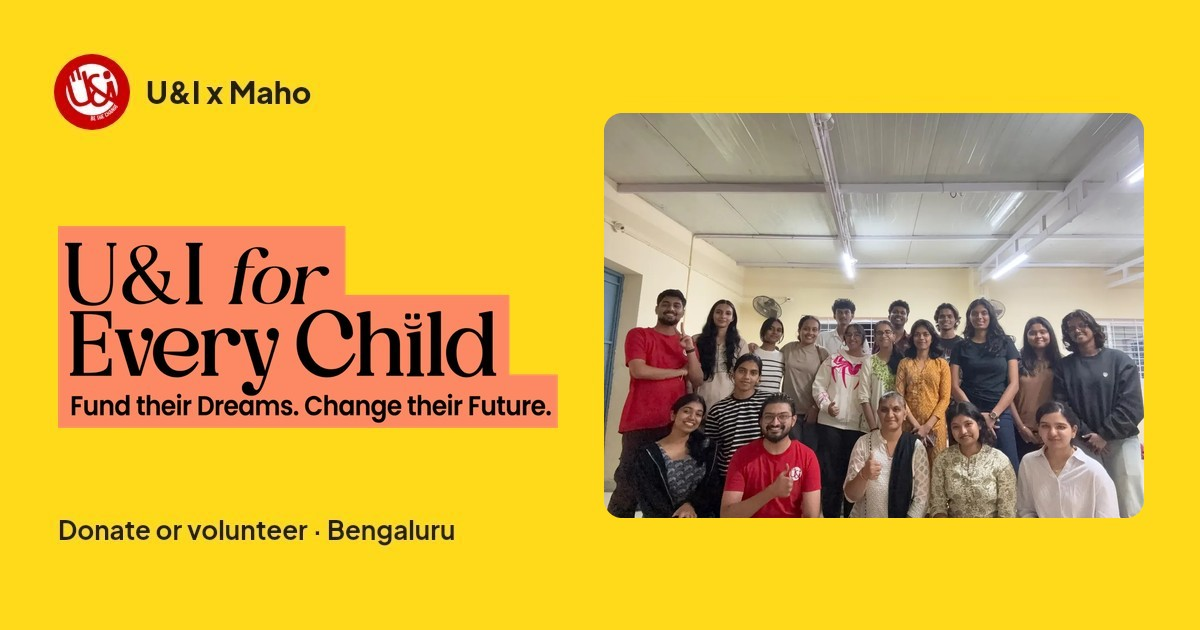
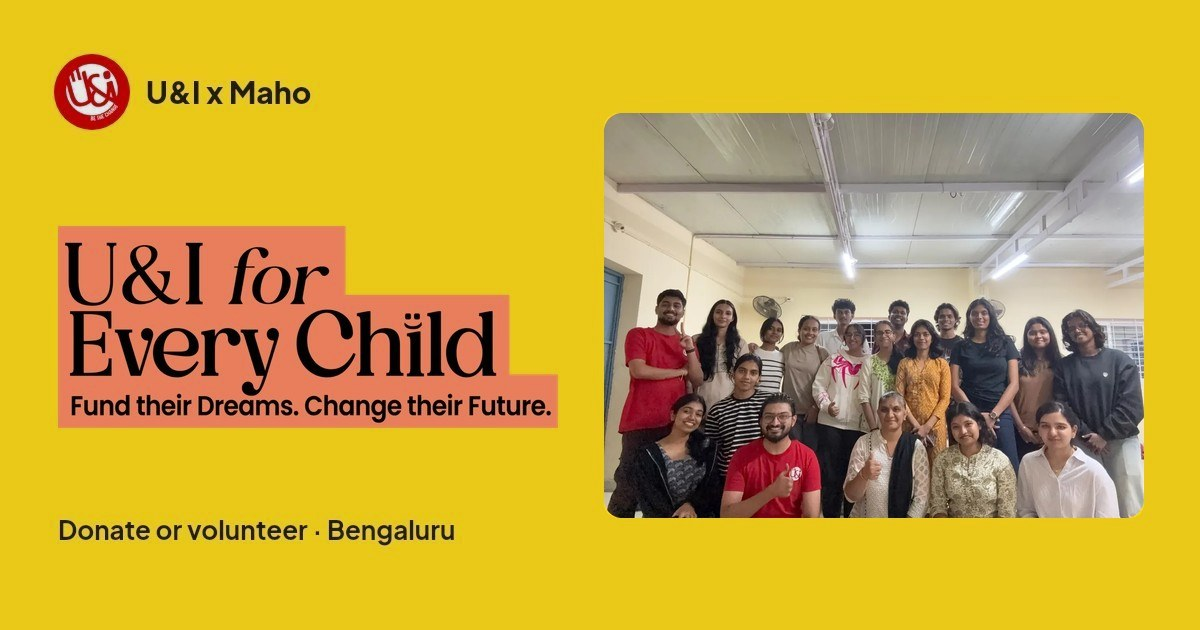
Close the loose ends from the site audit
- Fundraiser page on phones: the "#InThisTogether" headings were wider
  than the screen, so the page slid sideways. They now scale down on
  phones (and the closing one has a wider box on desktop); headings
  wrap instead of overflowing if a word is ever too long.
- Footer links are about 40px tall on phones, easy to tap.
- Phone menu: Esc closes it (focus goes back to the menu button), and
  tapping a link marks it closed for screen readers too.
- New "page not found" page (404.html), in the site's style, with links
  home, to Donate and to the student journeys.
- sitemap.xml and robots.txt are generated at build time; pages hidden
  from search (placeholders) are left out of the sitemap.
- Share image redone at the site's 92% brightness (photo unchanged);
  the privacy, terms and poster pages get their own share details.
- The footer year fills itself in at build time.

diff --git a/404.html b/404.html
@@ -1,0 +1,63 @@
+<!DOCTYPE html>
+<html lang="en">
+<head>
+<meta charset="utf-8">
+<!-- Same security policy as index.html (npm run check compares them). -->
+<meta http-equiv="Content-Security-Policy" content="default-src 'none'; script-src 'self'; style-src 'self'; img-src 'self'; font-src 'self'; form-action 'none'; base-uri 'none'; object-src 'none'; frame-src 'none'; manifest-src 'self'; require-trusted-types-for 'script'; upgrade-insecure-requests">
+<meta name="referrer" content="strict-origin-when-cross-origin">
+<meta name="viewport" content="width=device-width, initial-scale=1">
+<meta name="robots" content="noindex">
+<title>Page not found | U&amp;I x Maho</title>
+<meta name="description" content="This page doesn't exist. Go to the U&amp;I x Maho home page, donate, or read the student journeys.">
+<!-- "Page not found": Vercel (and GitHub Pages) show this for any address that doesn't exist, even deep ones like
+     /a/b. So every file here is linked from the site root ("/css/...", "/index.html"), the only page allowed to do
+     that (npm run check). On the GitHub Pages copy, which lives in a sub-folder, this page may show unstyled. -->
+<link rel="icon" type="image/png" href="/favicon.png">
+<link rel="apple-touch-icon" href="/apple-touch-icon.png">
+<link rel="preload" href="/fonts/archivo-latin-wdth-normal.woff2" as="font" type="font/woff2" crossorigin>
+<link rel="preload" href="/fonts/londrina-solid-latin-900-normal.woff2" as="font" type="font/woff2" crossorigin>
+<link rel="preload" href="/fonts/plus-jakarta-sans-latin-wght-normal.woff2" as="font" type="font/woff2" crossorigin>
+<link rel="stylesheet" href="/css/styles.css">
+</head>
+<body class="bg-bg text-ink font-sans antialiased">
+
+<header class="bg-bg border-b border-line">
+  <div class="wrap h-[4.5rem] flex items-center justify-between gap-4">
+    <a href="/index.html" class="flex items-center gap-3">
+      <img src="/images/logo.png" alt="U&amp;I x Maho home" width="44" height="44" class="h-11 w-11 rounded-full bg-red p-1 object-contain">
+      <span class="font-extrabold text-lg whitespace-nowrap">U&amp;I x Maho</span>
+    </a>
+    <a href="/fundraiser.html#give" class="btn btn-primary btn-sm">Donate</a>
+  </div>
+</header>
+
+<main>
+  <section class="band bg-yellow relative overflow-hidden min-h-[calc(100vh-9rem)] flex items-center" aria-labelledby="nf-title">
+    <svg class="absolute right-[6%] top-10 w-10 h-10 lg:w-16 lg:h-16 text-black" viewBox="0 0 24 24" fill="currentColor" aria-hidden="true"><path d="M12 0C12.6 7.2 16.8 11.4 24 12C16.8 12.6 12.6 16.8 12 24C11.4 16.8 7.2 12.6 0 12C7.2 11.4 11.4 7.2 12 0Z"/></svg>
+    <div class="wrap relative text-center w-full">
+      <p class="eyebrow">Page not found</p>
+      <h1 id="nf-title" class="mt-5">
+        <span class="hand hand-lg block text-black">Oops!</span>
+        <span class="hand hand-xl block text-crimson mt-2">This page isn't here.</span>
+      </h1>
+      <p class="lede mt-6 mx-auto">It may have moved, or the link has a small typo. These will take you somewhere useful:</p>
+      <div class="mt-8 flex flex-wrap justify-center gap-3">
+        <a href="/index.html" class="btn btn-dark">Go to the home page</a>
+        <a href="/fundraiser.html#give" class="btn btn-outline">Donate</a>
+        <a href="/journeys.html" class="btn btn-outline">Read the student journeys</a>
+      </div>
+    </div>
+  </section>
+</main>
+
+<footer class="bg-ink text-white py-8">
+  <div class="wrap flex flex-wrap gap-x-6 gap-y-2 text-sm text-white/70">
+    <p>© %YEAR% U&amp;I x Maho</p>
+    <a href="/privacy.html" class="underline hover:text-white">Privacy policy</a>
+    <a href="/terms.html" class="underline hover:text-white">Terms of use</a>
+    <a href="mailto:uandimaho@gmail.com" class="underline hover:text-white">uandimaho@gmail.com</a>
+  </div>
+</footer>
+
+</body>
+</html>

diff --git a/privacy.html b/privacy.html
@@ -8,6 +8,22 @@
 <meta name="viewport" content="width=device-width, initial-scale=1">
 <title>Privacy policy | U&amp;I x Maho</title>
 <meta name="description" content="What the U&amp;I x Maho website collects, why, and how to ask us to delete it.">
+<link rel="canonical" href="%SITE_URL%privacy.html">
+<meta property="og:type" content="website">
+<meta property="og:site_name" content="U&amp;I x Maho">
+<meta property="og:locale" content="en_IN">
+<meta property="og:title" content="Privacy policy | U&amp;I x Maho">
+<meta property="og:description" content="What the U&amp;I x Maho website collects (nothing), and how to reach us.">
+<meta property="og:url" content="%SITE_URL%privacy.html">
+<meta property="og:image" content="%SITE_URL%images/og-image.jpg">
+<meta property="og:image:type" content="image/jpeg">
+<meta property="og:image:width" content="1200">
+<meta property="og:image:height" content="630">
+<meta property="og:image:alt" content="U&amp;I for Every Child. Fund their dreams. Change their future. Maho's volunteers, smiling.">
+<meta name="twitter:card" content="summary_large_image">
+<meta name="twitter:title" content="Privacy policy | U&amp;I x Maho">
+<meta name="twitter:description" content="What the U&amp;I x Maho website collects (nothing), and how to reach us.">
+<meta name="twitter:image" content="%SITE_URL%images/og-image.jpg">
 <link rel="icon" type="image/png" href="favicon.png">
 <link rel="apple-touch-icon" href="apple-touch-icon.png">
 <link rel="preload" href="fonts/archivo-latin-wdth-normal.woff2" as="font" type="font/woff2" crossorigin>
@@ -94,7 +110,7 @@
 
 <footer class="bg-ink text-white py-8">
   <div class="wrap flex flex-wrap gap-x-6 gap-y-2 text-sm text-white/70">
-    <p>© 2026 U&amp;I x Maho</p>
+    <p>© %YEAR% U&amp;I x Maho</p>
     <a href="privacy.html" class="underline hover:text-white" aria-current="page">Privacy policy</a>
     <a href="terms.html" class="underline hover:text-white">Terms of use</a>
     <a href="mailto:uandimaho@gmail.com" class="underline hover:text-white">uandimaho@gmail.com</a>

diff --git a/terms.html b/terms.html
@@ -8,6 +8,22 @@
 <meta name="viewport" content="width=device-width, initial-scale=1">
 <title>Terms of use | U&amp;I x Maho</title>
 <meta name="description" content="The rules for using the U&amp;I x Maho website.">
+<link rel="canonical" href="%SITE_URL%terms.html">
+<meta property="og:type" content="website">
+<meta property="og:site_name" content="U&amp;I x Maho">
+<meta property="og:locale" content="en_IN">
+<meta property="og:title" content="Terms of use | U&amp;I x Maho">
+<meta property="og:description" content="The terms for using the U&amp;I x Maho website.">
+<meta property="og:url" content="%SITE_URL%terms.html">
+<meta property="og:image" content="%SITE_URL%images/og-image.jpg">
+<meta property="og:image:type" content="image/jpeg">
+<meta property="og:image:width" content="1200">
+<meta property="og:image:height" content="630">
+<meta property="og:image:alt" content="U&amp;I for Every Child. Fund their dreams. Change their future. Maho's volunteers, smiling.">
+<meta name="twitter:card" content="summary_large_image">
+<meta name="twitter:title" content="Terms of use | U&amp;I x Maho">
+<meta name="twitter:description" content="The terms for using the U&amp;I x Maho website.">
+<meta name="twitter:image" content="%SITE_URL%images/og-image.jpg">
 <link rel="icon" type="image/png" href="favicon.png">
 <link rel="apple-touch-icon" href="apple-touch-icon.png">
 <link rel="preload" href="fonts/archivo-latin-wdth-normal.woff2" as="font" type="font/woff2" crossorigin>
@@ -88,7 +104,7 @@
 
 <footer class="bg-ink text-white py-8">
   <div class="wrap flex flex-wrap gap-x-6 gap-y-2 text-sm text-white/70">
-    <p>© 2026 U&amp;I x Maho</p>
+    <p>© %YEAR% U&amp;I x Maho</p>
     <a href="privacy.html" class="underline hover:text-white">Privacy policy</a>
     <a href="terms.html" class="underline hover:text-white" aria-current="page">Terms of use</a>
     <a href="mailto:uandimaho@gmail.com" class="underline hover:text-white">uandimaho@gmail.com</a>

diff --git a/poster.html b/poster.html
@@ -8,6 +8,23 @@
 <meta name="viewport" content="width=device-width, initial-scale=1">
 <meta name="robots" content="noindex">
 <title>Printable poster | U&amp;I x Maho</title>
+<meta name="description" content="A printable A4 poster for the U&amp;I x Maho campaign, with a QR code to the website.">
+<link rel="canonical" href="%SITE_URL%poster.html">
+<meta property="og:type" content="website">
+<meta property="og:site_name" content="U&amp;I x Maho">
+<meta property="og:locale" content="en_IN">
+<meta property="og:title" content="Printable poster | U&amp;I x Maho">
+<meta property="og:description" content="A printable A4 poster for the U&amp;I x Maho campaign, with a QR code to the website.">
+<meta property="og:url" content="%SITE_URL%poster.html">
+<meta property="og:image" content="%SITE_URL%images/og-image.jpg">
+<meta property="og:image:type" content="image/jpeg">
+<meta property="og:image:width" content="1200">
+<meta property="og:image:height" content="630">
+<meta property="og:image:alt" content="U&amp;I for Every Child. Fund their dreams. Change their future. Maho's volunteers, smiling.">
+<meta name="twitter:card" content="summary_large_image">
+<meta name="twitter:title" content="Printable poster | U&amp;I x Maho">
+<meta name="twitter:description" content="A printable A4 poster for the U&amp;I x Maho campaign, with a QR code to the website.">
+<meta name="twitter:image" content="%SITE_URL%images/og-image.jpg">
 <link rel="icon" type="image/png" href="favicon.png">
 <link rel="preload" href="fonts/archivo-latin-wdth-normal.woff2" as="font" type="font/woff2" crossorigin>
 <link rel="stylesheet" href="css/styles.css">

diff --git a/fundraiser.html b/fundraiser.html
@@ -115,7 +115,7 @@
     <div class="wrap">
       <div class="text-center">
         <p class="eyebrow text-ink">The campaign</p>
-        <h2 class="display impact-title mt-3">Our biggest #InThisTogether moment</h2>
+        <h2 class="display impact-title text-[clamp(1.35rem,4.4vw,3.75rem)] mt-3">Our biggest #InThisTogether moment</h2>
       </div>
       <div class="mt-12 lg:mt-16 grid lg:grid-cols-12 gap-14 lg:gap-12 items-center">
         <dl class="lg:col-span-6 space-y-8 lg:space-y-10">
@@ -228,8 +228,8 @@
 
   <!-- Final call, with a clear way back home -->
   <section class="band bg-yellow">
-    <div class="wrap max-w-3xl text-center">
-      <h2 class="display impact-title">Be part of <span class="text-pink ink-offset">#InThisTogether</span></h2>
+    <div class="wrap max-w-4xl text-center">
+      <h2 class="display impact-title text-[clamp(1.35rem,4.4vw,3.75rem)]">Be part of <span class="text-pink ink-offset">#InThisTogether</span></h2>
       <p class="lede mt-5 mx-auto">Give, share, or join the volunteers who teach at Maho every week.</p>
       <div class="mt-8 flex flex-wrap justify-center gap-3">
         <a href="#give" class="btn btn-dark">Donate now</a>
@@ -280,7 +280,7 @@
     </div>
   </div>
   <div class="wrap mt-12 flex flex-wrap gap-x-6 gap-y-2 text-sm text-white/70">
-    <p>© 2026 U&amp;I x Maho</p>
+    <p>© %YEAR% U&amp;I x Maho</p>
     <a href="poster.html" class="underline hover:text-white">Printable poster</a>
     <a href="privacy.html" class="underline hover:text-white">Privacy policy</a>
     <a href="terms.html" class="underline hover:text-white">Terms of use</a>

diff --git a/src/components.css b/src/components.css
@@ -29,7 +29,7 @@
   @media (min-width: 1024px) { .band { padding-block: 6.5rem; } }
 
   /* The one loud moment: U&I-style wide capitals for the hero headline only */
-  .display { font-family: theme("fontFamily.display"); font-weight: 900; font-stretch: 125%; text-transform: uppercase; line-height: 0.95; letter-spacing: -0.01em; }
+  .display { font-family: theme("fontFamily.display"); font-weight: 900; font-stretch: 125%; text-transform: uppercase; line-height: 0.95; letter-spacing: -0.01em; overflow-wrap: break-word; }
   .display-xl { font-size: clamp(2.1rem, 5.6vw, 4.75rem); }
   .display-lg { font-size: clamp(1.9rem, 4.2vw, 3.6rem); } /* longer hero lines (fundraiser.html) */
 
@@ -103,6 +103,11 @@
   .offset-card { box-shadow: 0.9rem 0.9rem 0 theme("colors.pink"); }
   /* Donate QR code on crimson: a white card, so phones can read it (QR codes need a light background) */
   .qr-card { display: inline-block; background: #fff; border-radius: 0.9rem; padding: 0.6rem; }
+  /* Footer links: on phones each link gets padding so it's about 40px tall, easy to tap with a thumb */
+  @media (max-width: 767px) {
+    footer.bg-ink a { display: inline-block; padding-top: 0.6rem; padding-bottom: 0.6rem; }
+    footer.bg-ink .space-y-3 > :not([hidden]) ~ :not([hidden]) { margin-top: 0; }
+  }
   /* Student journey tiles (journeys.html): closed shows the teaser; "Read the story" opens the tile in place */
   .journey-tile > summary { list-style: none; }
   .journey-tile > summary::-webkit-details-marker { display: none; }

diff --git a/js/main.js b/js/main.js
@@ -1,14 +1,19 @@
-// Mobile menu toggle
+// Mobile menu: the menu button opens and closes it; tapping a link or pressing Esc closes it
 const btn = document.getElementById('menu-btn');
 const mobileNav = document.getElementById('mobile-nav');
+const closeMenu = () => {
+  mobileNav.classList.add('hidden'); mobileNav.classList.remove('flex');
+  btn.setAttribute('aria-expanded', 'false');
+};
 btn.addEventListener('click', () => {
   const open = mobileNav.classList.toggle('hidden') === false;
   mobileNav.classList.toggle('flex', open);
   btn.setAttribute('aria-expanded', String(open));
 });
-mobileNav.querySelectorAll('a').forEach(a => a.addEventListener('click', () => {
-  mobileNav.classList.add('hidden'); mobileNav.classList.remove('flex');
-}));
+mobileNav.querySelectorAll('a').forEach(a => a.addEventListener('click', closeMenu));
+document.addEventListener('keydown', (event) => {
+  if (event.key === 'Escape' && !mobileNav.classList.contains('hidden')) { closeMenu(); btn.focus(); }
+});
 
 // Arriving at a section (e.g. the menu's Donate button opens fundraiser.html#give): once everything has loaded, jump
 // straight to it, then switch on smooth scrolling for links within the page.

diff --git a/index.html b/index.html
@@ -271,7 +271,7 @@
     </div>
   </div>
   <div class="wrap mt-12 flex flex-wrap gap-x-6 gap-y-2 text-sm text-white/70">
-    <p>© 2026 U&amp;I x Maho</p>
+    <p>© %YEAR% U&amp;I x Maho</p>
     <a href="poster.html" class="underline hover:text-white">Printable poster</a>
     <a href="privacy.html" class="underline hover:text-white">Privacy policy</a>
     <a href="terms.html" class="underline hover:text-white">Terms of use</a>

diff --git a/journeys.html b/journeys.html
@@ -159,7 +159,7 @@
     </div>
   </div>
   <div class="wrap mt-12 flex flex-wrap gap-x-6 gap-y-2 text-sm text-white/70">
-    <p>© 2026 U&amp;I x Maho</p>
+    <p>© %YEAR% U&amp;I x Maho</p>
     <a href="poster.html" class="underline hover:text-white">Printable poster</a>
     <a href="privacy.html" class="underline hover:text-white">Privacy policy</a>
     <a href="terms.html" class="underline hover:text-white">Terms of use</a>

diff --git a/stories.html b/stories.html
@@ -149,7 +149,7 @@
     </div>
   </div>
   <div class="wrap mt-12 flex flex-wrap gap-x-6 gap-y-2 text-sm text-white/70">
-    <p>© 2026 U&amp;I x Maho</p>
+    <p>© %YEAR% U&amp;I x Maho</p>
     <a href="poster.html" class="underline hover:text-white">Printable poster</a>
     <a href="privacy.html" class="underline hover:text-white">Privacy policy</a>
     <a href="terms.html" class="underline hover:text-white">Terms of use</a>

diff --git a/volunteer.html b/volunteer.html
@@ -252,7 +252,7 @@
     </div>
   </div>
   <div class="wrap mt-12 flex flex-wrap gap-x-6 gap-y-2 text-sm text-white/70">
-    <p>© 2026 U&amp;I x Maho</p>
+    <p>© %YEAR% U&amp;I x Maho</p>
     <a href="poster.html" class="underline hover:text-white">Printable poster</a>
     <a href="privacy.html" class="underline hover:text-white">Privacy policy</a>
     <a href="terms.html" class="underline hover:text-white">Terms of use</a>
